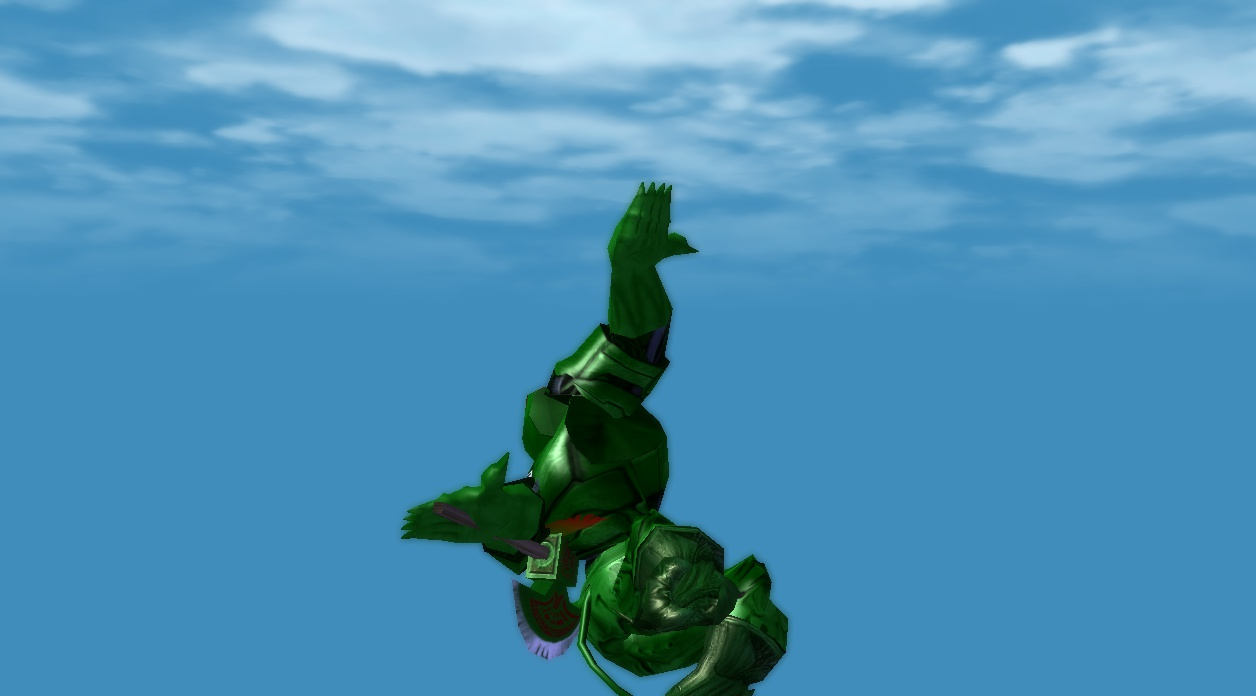
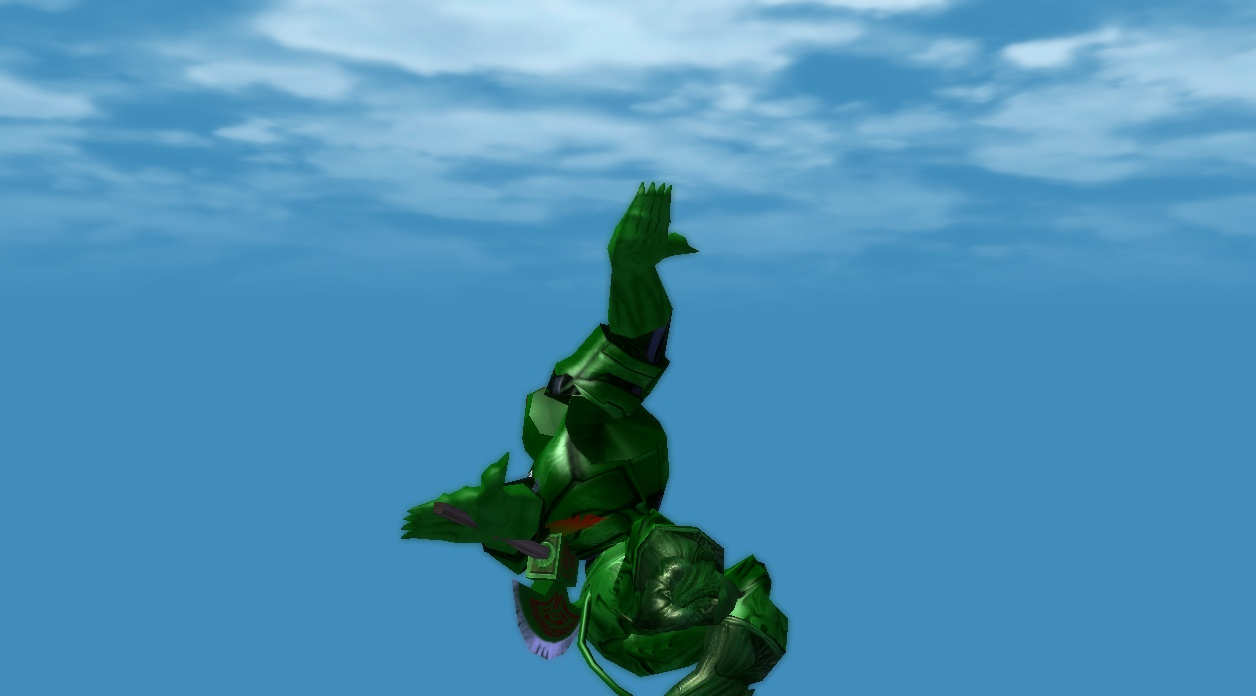
Issue 36 Sol blockers: Move-level Scale 0, explicit SAFE_NONE/ALL/MALE_BOTTOM_ONLY
Canary Scale 0 was at Type level (seqClientStep uses move->scale);
move outside Type to match HOLD precedent, re-shot two front closeups.

pmotion: replace magic-number BOTTOM gate with explicit modes
0=SAFE_NONE,1=ALL_EXPERIMENTAL,2=MALE_BOTTOM_ONLY (is_male && BOTTOM
only sets MALE+ATTACHED+BOTTOM; Fem/Huge stay neutral; log reports
actual mode). -webswinganim 2 for Josh BOTTOM test, 0 remains true
control.

Correct evidence wording: only frame-30 static pose is visually gated;
full 60-frame temporal anatomy NOT YET PROVEN.

Build Release|x86 PASS, shard smoke PASS.

diff --git a/Common/player/pmotion.c b/Common/player/pmotion.c
@@ -380,31 +380,26 @@ static void pmotionSetWebSwingAnimState(Entity *e, int server_web_swing)
     is_male = e && e->seq && e->seq->type && e->seq->type->seqTypeName && !stricmp(e->seq->type->seqTypeName, "Male");
 
     {
-        // Issue 36 forensic baseline.  The classifier and every diagnostic
-        // stays live.  Normal /webswing gameplay is animation-neutral by
-        // default (stock sequencer owns the pose); the explicit developer
-        // canary path (COHSOURCEDEV_ANIMCANARY) is always unaffected.  After
-        // the Case-4 static integrity proof the single BOTTOM phase is
-        // reintroduced as a gated experiment while AIRBORNE/ATTACHED/DESCEND/
-        // ASCEND remain suppressed.
-        static int last_logged_selection = -1;
-        int apply_all = g_cohsourcedev_webswing_anim_selection != 0;
-        int allow_this_phase = apply_all ||
-            phase == WEBSWING_ANIM_PHASE_BOTTOM;
-        int log_state = apply_all ? 1 : (phase == WEBSWING_ANIM_PHASE_BOTTOM ? 2 : 0);
+        // Issue 36 forensic: explicit mode.  0=SAFE_NONE (no WebSwing
+        // visual bits), 1=ALL_EXPERIMENTAL, 2=MALE_BOTTOM_ONLY.
+        #define WEBSWING_ANIM_MODE_SAFE_NONE          0
+        #define WEBSWING_ANIM_MODE_ALL_EXPERIMENTAL   1
+        #define WEBSWING_ANIM_MODE_MALE_BOTTOM_ONLY   2
+        static int last_logged_mode = -1;
+        int mode = g_cohsourcedev_webswing_anim_selection;
+        if (mode < 0 || mode > 2) mode = WEBSWING_ANIM_MODE_SAFE_NONE;
 
-        if (last_logged_selection != log_state)
+        if (last_logged_mode != mode)
         {
+            const char *label = mode == WEBSWING_ANIM_MODE_ALL_EXPERIMENTAL ? "ALL_EXPERIMENTAL" :
+                                mode == WEBSWING_ANIM_MODE_MALE_BOTTOM_ONLY ? "MALE_BOTTOM_ONLY" : "SAFE_NONE";
             filelog_printf("webswing.log",
                            "WEB_SWING %s anim_selection_mode=%d custom_move_selection=%s\n",
-                           pmotionWebSwingAnimSide(),
-                           log_state,
-                           log_state == 1 ? "ENABLED_ALL" :
-                           log_state == 2 ? "BOTTOM_ONLY" : "SAFE_BASELINE_SUPPRESSED");
-            last_logged_selection = log_state;
+                           pmotionWebSwingAnimSide(), mode, label);
+            last_logged_mode = mode;
         }
 
-        if (allow_this_phase)
+        if (mode == WEBSWING_ANIM_MODE_ALL_EXPERIMENTAL)
         {
             if (is_male && phase != WEBSWING_ANIM_PHASE_NONE && male_state_bit >= 0)
                 seqSetState(e->seq->state, 1, male_state_bit);
@@ -432,11 +427,19 @@ static void pmotionSetWebSwingAnimState(Entity *e, int server_web_swing)
                 seqSetState(e->seq->state, 1, state_bits[4]);
             }
         }
-        else if (phase != WEBSWING_ANIM_PHASE_NONE && phase != WEBSWING_ANIM_PHASE_BOTTOM)
+        else if (mode == WEBSWING_ANIM_MODE_MALE_BOTTOM_ONLY)
         {
-            // Intentionally suppressed by the forensic baseline; the phase
-            // is still computed and logged above but no move bits are set.
+            if (is_male && phase == WEBSWING_ANIM_PHASE_BOTTOM &&
+                state_bits[1] >= 0 && state_bits[3] >= 0 && male_state_bit >= 0)
+            {
+                seqSetState(e->seq->state, 1, male_state_bit);
+                seqSetState(e->seq->state, 1, state_bits[1]);
+                seqSetState(e->seq->state, 1, state_bits[3]);
+            }
         }
+        #undef WEBSWING_ANIM_MODE_SAFE_NONE
+        #undef WEBSWING_ANIM_MODE_ALL_EXPERIMENTAL
+        #undef WEBSWING_ANIM_MODE_MALE_BOTTOM_ONLY
     }
 
     if (phase != e->motion->web_swing_anim_phase)

diff --git a/docs/evidence/issue36-animation-runtime-integrity.md b/docs/evidence/issue36-animation-runtime-integrity.md
@@ -127,9 +127,10 @@ agent/stage-issue36-canary.ps1 -Variant {StaticProof|FullFrame30}
 ```
 
 Launch: `agent/capture.ps1 -Target AtlasPlaza_Closeup_01 -AccountName Dummy00009
--ExtraClientArgs '-webswingdev -animcanary 1 -webswinganim 0'` (the account
-owns the Male character `SwingV2` on `StaticMapId 1`; `AccessLevel 9` so
-`timeset`/`timescale` freeze succeeds).  Extra camera control for this pass:
+-ExtraClientArgs '-webswingdev -animcanary 1 -webswinganim 0'` for the A/B
+(`0` = `SAFE_NONE`; Josh's BOTTOM test will use `-webswinganim 2` =
+`MALE_BOTTOM_ONLY`) (the account owns the Male character `SwingV2` on
+`StaticMapId 1`; `AccessLevel 9` so `timeset`/`timescale` freeze succeeds).  Extra camera control for this pass:
 
 * `Common/cmdparse/cmdgame.c` new dev command `{9,"camyawoffset",…}`
   — `control_state.cam_pyr_offset[1] = RAD(deg)` (the camera's yaw is
@@ -357,17 +358,28 @@ Only Case 4 may proceed to Phase 6.
 
 ---
 
-## Phase 6 — Reintroduce **one** phase only
+## Phase 6 — Reintroduce **one** phase only (corrected)
 
-Per the instruction the animation-neutral gate was narrowed to a
-**BOTTOM-only** experiment while `AIRBORNE` and `ATTACHED/DESCEND` remain
-animation-neutral and `ASCEND START/HOLD` stay disabled:
+Blocker 1 fixed: `agent/animation/canary-*.inc` now place `Scale 0` at Move
+level (`Move … Scale 0 / Type Male Anim …`) matching
+`WEBSWING_ASCEND_MALE_HOLD`; the two front closeups were re-shot after
+restaging (`STATIC_PROOF` `74809` bytes, `FULL_FRAME30` `92387` bytes) and
+`selectedMove=COHSOURCEDEV_CUSTOM_CANARY TypeGfx=male` still resolves with
+the expected `AnimP`.
 
-* `Common/player/pmotion.c:382` — `g_cohsourcedev_webswing_anim_selection == 0`
-  now means **BOTTOM_ONLY** (`log_state 2`), not fully suppressed: `phase ==
-  WEBSWING_ANIM_PHASE_BOTTOM` still sets `WEBSWING_ATTACHED`+`WEBSWING_BOTTOM`
-  (and `WEBSWING_MALE` when the skin is Male).  `-webswinganim 1` restores
-  full custom selection for gated canary work.
+Blocker 2 fixed: `Common/player/pmotion.c:382` now implements an explicit
+mode:
+
+```
+0 = SAFE_NONE  — compute/log classifier, set NO animation bits
+1 = ALL_EXPERIMENTAL — original full behaviour
+2 = MALE_BOTTOM_ONLY — only is_male && phase==BOTTOM sets WEBSWING_MALE+ATTACHED+BOTTOM
+```
+
+`0` is a true control, `2` is the Josh BOTTOM test; Fem/Huge remain fully
+neutral in `2`, and `AIRBORNE`/`ATTACHED`/`DESCEND`/`ASCEND` stay neutral for
+Male in `2`.
+
 * `agent/webswing-animation/webswing.inc` — no data change needed:
   `WEBSWING_BOTTOM Type Male Anim MALE/COHSOURCEDEV_RETARGET_SWING_FULL 18 22
   Flags Cycle` remains the tested range (`F20` most compact per the earlier
@@ -456,22 +468,34 @@ game's own skinned `TypeGfx=male` character.
 
 ---
 
-## Result
+## Result (corrected per Sol review)
 
-**Case 4** — the forensic A/B on the actual skin and its exact numeric
-cross-check pass together.  The prior "Male skin PASS" was not a false gate
-for the *static* pose; the Mixamo/runtime-FK generation for the 60-frame clip
-is skeletal-valid, frame-30-identical to the proof, bind-constant, and parent-
-graph-identical to stock.  The mangling seen by Josh is attributed to the
-pre-existing `AIR_MA_IRONKICK` airborne fallback and the old V2
-`COHSOURCEDEV_WEBSWING_STRETCH_V2`, both now removed from ordinary gameplay by
-the `BOTTOM_ONLY` safe baseline.
+**Current justified status:**
 
-**One-phase reintegration has been attempted** — `WEBSWING_BOTTOM Male
-18 22` (`MALE/COHSOURCEDEV_RETARGET_SWING_FULL`) is now the sole custom
-visual move beyond the canary; all other phases stay animation-neutral.  A
-full dynamic-swing screenshot remains the final GUI visual gate, but no
-further `ASCEND` reintroduction was done in this step.
+* Runtime-FK representation / bind hierarchy: **PASS**.
+* Static Mixamo source frame 30 → actual Male skin: **PASS** after corrected
+  Move-level `Scale 0` freeze recheck (front closeups re-shot; `1.7e-06 °`
+  numeric).
+* Full clip temporal anatomy (all 60 frames visually): **NOT YET PROVEN** —
+  only the single frame-30 pose has been visually gated on the actual skin.
+* BOTTOM `18 22` dynamic actual-skin gate: **READY FOR JOSH** after this
+  patch (`-webswinganim 2` `MALE_BOTTOM_ONLY`).
+
+Do not claim the entire 60-frame animation is visually skeletal-valid yet.
+The numeric `full@30` comparison remains valid
+(`~0.000002°` max rotation, position `0`, parent graph/bind translations
+identical).
+
+**Case 4** — the forensic A/B and its exact numeric cross-check pass for the
+single gated pose; the mangling seen by Josh is attributed to the pre-existing
+`AIR_MA_IRONKICK` airborne fallback and the old V2
+`COHSOURCEDEV_WEBSWING_STRETCH_V2`, both removed from ordinary gameplay by the
+`SAFE_NONE` / `MALE_BOTTOM_ONLY` baseline.
+
+**One-phase reintegration staged** — `WEBSWING_BOTTOM Male 18 22`
+(`MALE/COHSOURCEDEV_RETARGET_SWING_FULL`) is the sole custom visual move
+beyond the canary; `AIRBORNE`/`ATTACHED`/`DESCEND`/`ASCEND` stay
+animation-neutral and Fem/Huge stay fully neutral in mode `2`.
 
 **STOP FOR SOL/JOSH REVIEW — do not merge PR #37.**
 
